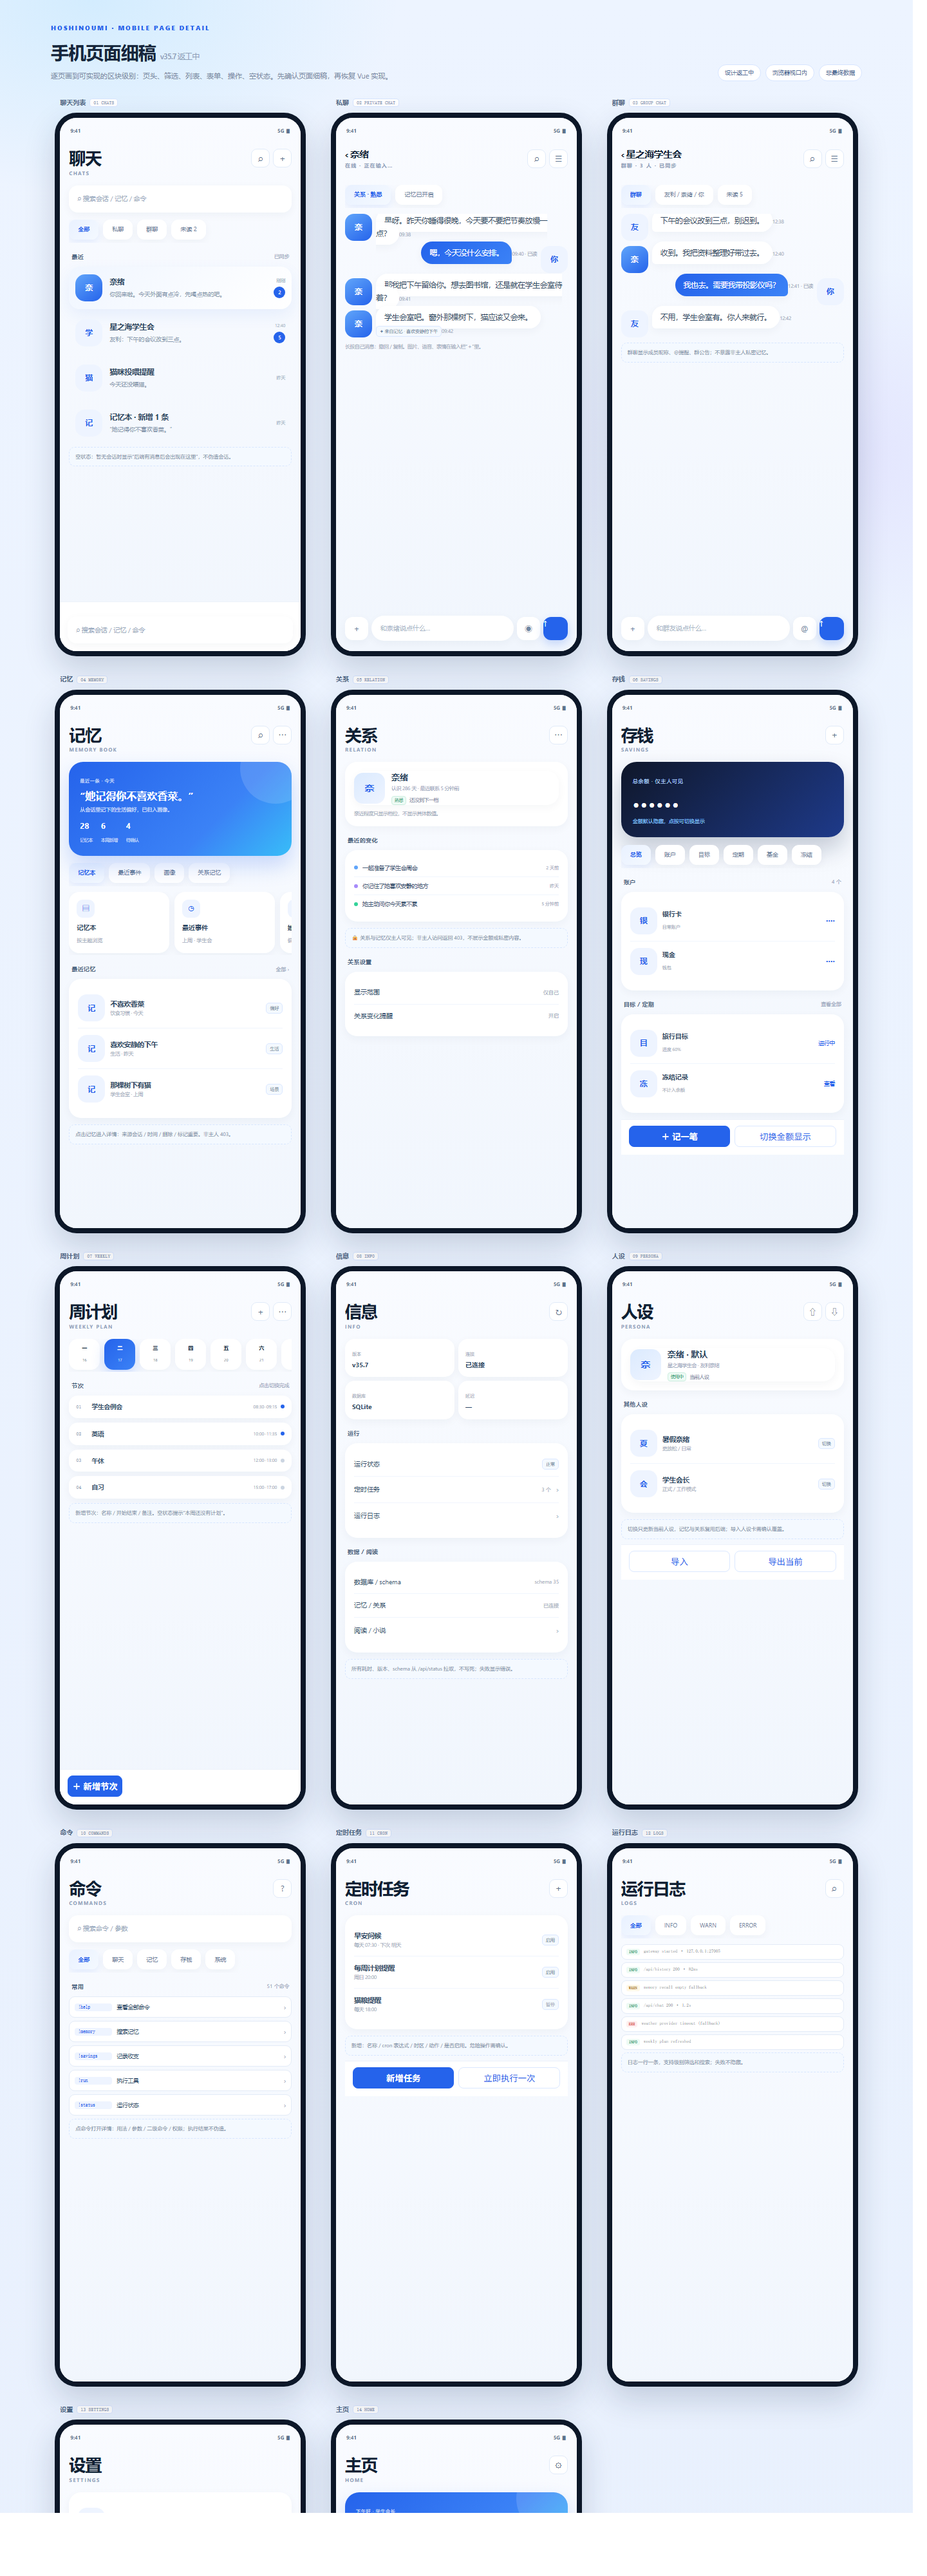
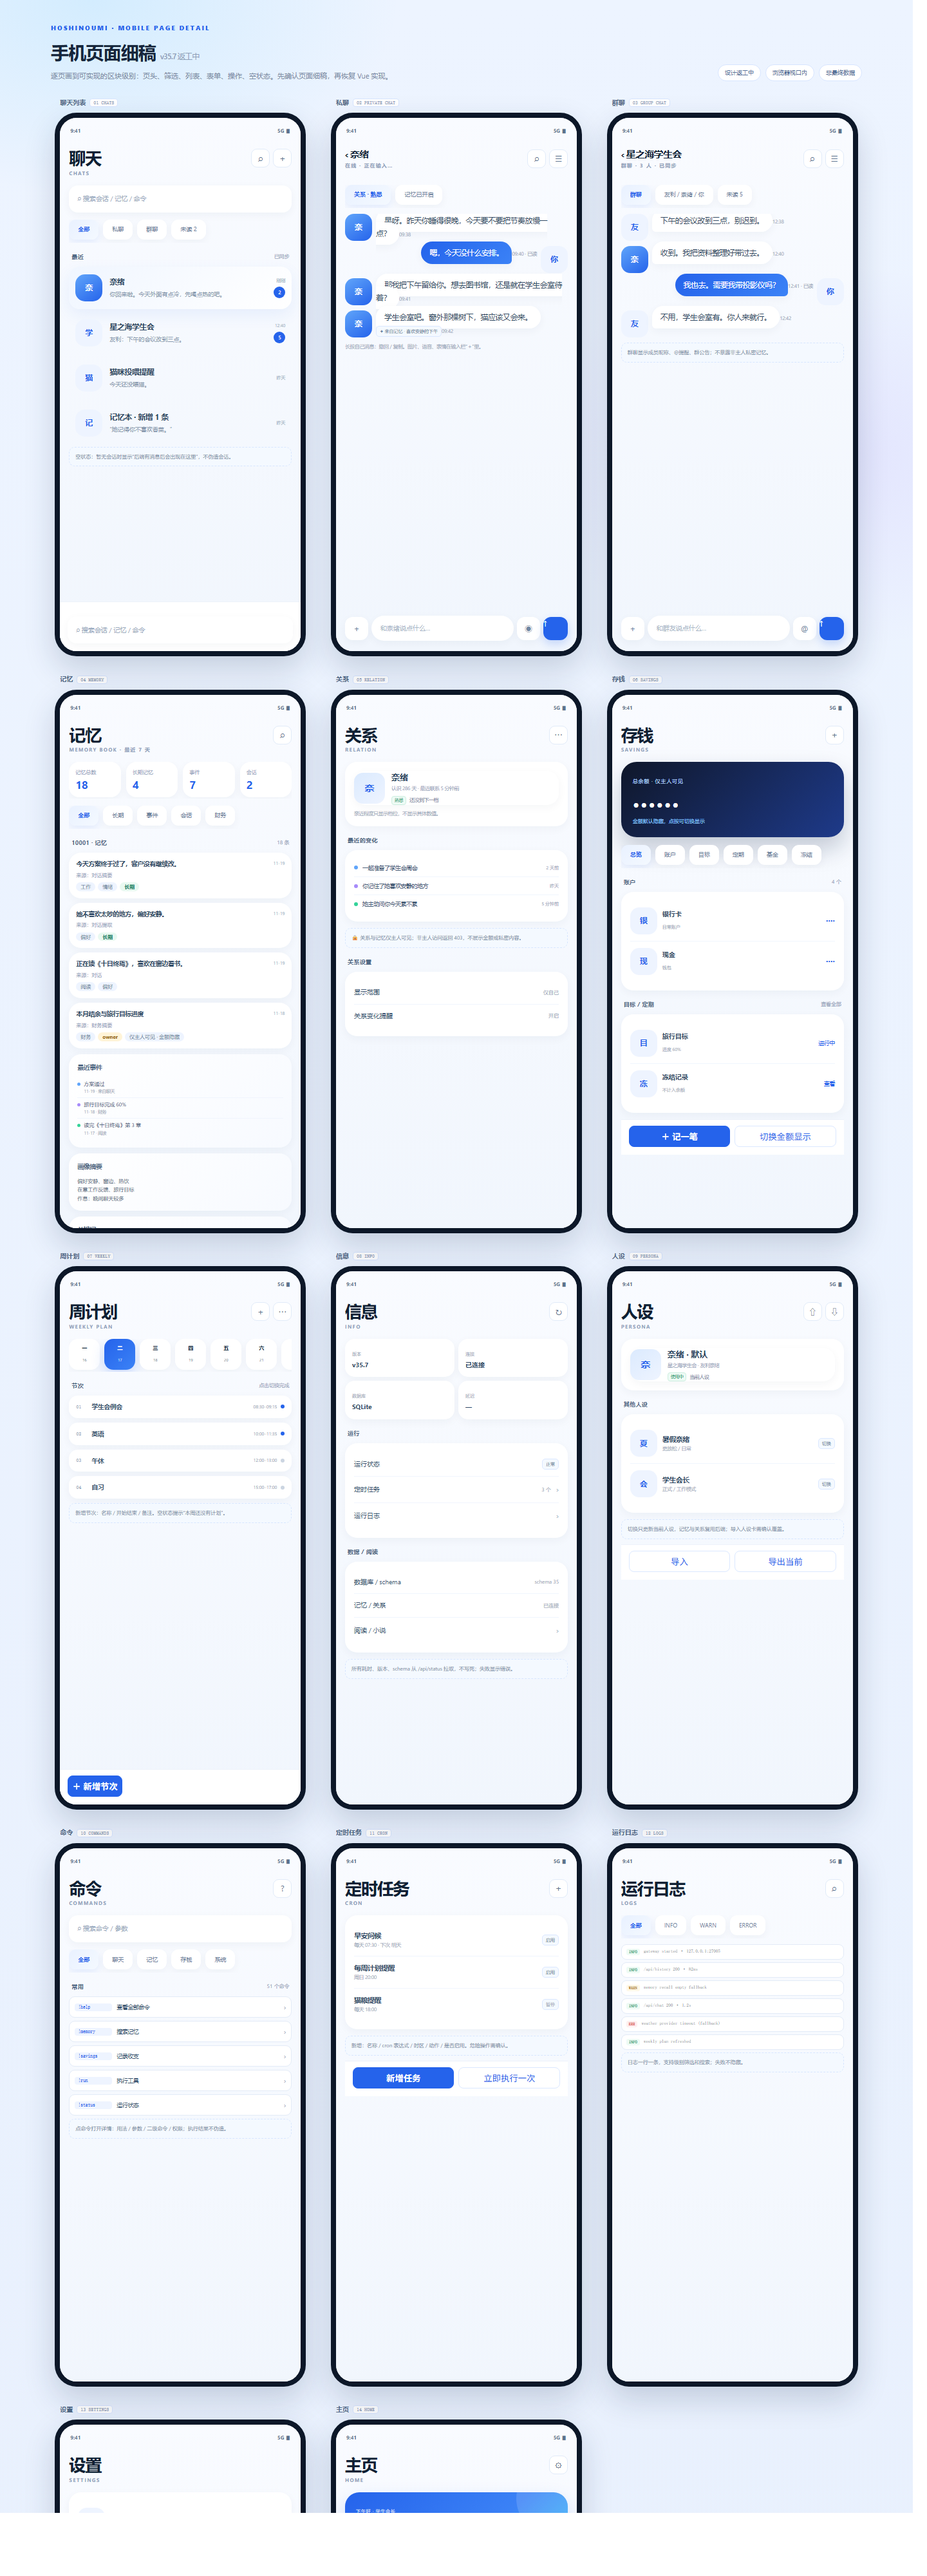
design(v35.7): 全量手机卡片与浮动底栏返工

Changed region(s): [[0.0625, 0.2812, 0.3125, 0.4688]]

diff --git a/docs/design/v35/mobile/hoshinoumi-mobile-v35.7-pages.html b/docs/design/v35/mobile/hoshinoumi-mobile-v35.7-pages.html
@@ -103,13 +103,17 @@ header p{margin:0;color:#7c8da6;font-size:11px;max-width:620px}
 
 <!-- 04 MEMORY -->
 <div class="item"><div class="label"><b>记忆</b><span>04 MEMORY</span></div><div class="frame"><div class="view"><div class="status"><span>9:41</span><span>5G ▮</span></div><div class="pg">
-<div class="ph"><h2>记忆<small>MEMORY BOOK</small></h2><div class="act"><i>⌕</i><i>⋯</i></div></div>
-<div class="mem-hero"><small>最近一条 · 今天</small><h3>“她记得你不喜欢香菜。”</h3><p>从会话里记下的生活偏好，已归入画像。</p><div class="mem-stat"><div><b>28</b><span>记忆本</span></div><div><b>6</b><span>本周新增</span></div><div><b>4</b><span>待确认</span></div></div></div>
-<div class="chips"><span class="chip on">记忆本</span><span class="chip">最近事件</span><span class="chip">画像</span><span class="chip">关系记忆</span></div>
-<div class="tiles"><div class="tile"><i>▤</i><b>记忆本</b><span>按主题浏览</span></div><div class="tile"><i>◷</i><b>最近事件</b><span>上周 · 学生会</span></div><div class="tile"><i>◉</i><b>她的画像</b><span>偏好 / 习惯</span></div><div class="tile"><i>♡</i><b>关系记忆</b><span>一起经历过</span></div></div>
-<div class="section-title">最近记忆<span>全部 ›</span></div>
-<div class="card"><div class="rowline"><span class="avatar" style="width:24px;height:24px">记</span><span class="grow"><b>不喜欢香菜</b><small>饮食习惯 · 今天</small></span><span class="tag">偏好</span></div><div class="rowline"><span class="avatar" style="width:24px;height:24px">记</span><span class="grow"><b>喜欢安静的下午</b><small>生活 · 昨天</small></span><span class="tag">生活</span></div><div class="rowline"><span class="avatar" style="width:24px;height:24px">记</span><span class="grow"><b>那棵树下有猫</b><small>学生会室 · 上周</small></span><span class="tag">场景</span></div></div>
-<div class="notice">点击记忆进入详情：来源会话 / 时间 / 删除 / 标记重要。非主人 403。</div>
+<div class="ph"><h2>记忆<small>MEMORY BOOK · 最近 7 天</small></h2><div class="act"><i>⌕</i></div></div>
+<div class="mem-stats"><div class="mem-stat-card"><small>记忆总数</small><b>18</b></div><div class="mem-stat-card"><small>长期记忆</small><b>4</b></div><div class="mem-stat-card"><small>事件</small><b>7</b></div><div class="mem-stat-card"><small>会话</small><b>2</b></div></div>
+<div class="chips"><span class="chip on">全部</span><span class="chip">长期</span><span class="chip">事件</span><span class="chip">会话</span><span class="chip">财务</span></div>
+<div class="section-title">10001 · 记忆<span>18 条</span></div>
+<div class="mem-card"><div class="top"><b>今天方案终于过了，客户没有继续改。</b><span class="date">11-19</span></div><p>来源：对话摘要</p><div class="mem-tags"><span class="mem-tag">工作</span><span class="mem-tag">情绪</span><span class="mem-tag long">长期</span></div></div>
+<div class="mem-card"><div class="top"><b>她不喜欢太吵的地方，偏好安静。</b><span class="date">11-19</span></div><p>来源：对话提取</p><div class="mem-tags"><span class="mem-tag">偏好</span><span class="mem-tag long">长期</span></div></div>
+<div class="mem-card"><div class="top"><b>正在读《十日终焉》，喜欢在窗边看书。</b><span class="date">11-19</span></div><p>来源：对话</p><div class="mem-tags"><span class="mem-tag">阅读</span><span class="mem-tag">偏好</span></div></div>
+<div class="mem-card"><div class="top"><b>本月结余与旅行目标进度</b><span class="date">11-18</span></div><p>来源：财务摘要</p><div class="mem-tags"><span class="mem-tag">财务</span><span class="mem-tag owner">owner</span><span class="mem-tag">仅主人可见 · 金额隐藏</span></div></div>
+<div class="mem-side-card"><h4>最近事件</h4><div class="ev"><i></i><span>方案通过<small>11-19 · 来自聊天</small></span></div><div class="ev"><i style="background:#a78bfa"></i><span>旅行目标完成 60%<small>11-18 · 财务</small></span></div><div class="ev"><i style="background:#34d399"></i><span>读完《十日终焉》第 3 章<small>11-17 · 阅读</small></span></div></div>
+<div class="mem-side-card"><h4>画像摘要</h4><p style="margin:0;font-size:8px;line-height:1.7;color:#536b86">偏好安静、窗边、热饮<br>在意工作反馈、旅行目标<br>作息：晚间聊天较多</p></div>
+<div class="mem-side-card"><h4>关键词</h4><div class="kw"><span>方案</span><span>旅行</span><span>安静</span><span>十日终焉</span><span>存钱</span><span>猫</span></div></div>
 </div></div></div></div>
 
 <!-- 05 RELATION -->

diff --git a/docs/design/v35/mobile/mobile-native.css b/docs/design/v35/mobile/mobile-native.css
@@ -102,3 +102,13 @@ body.nav-expanded #view{padding-bottom:196px!important}
 .savings-hero .amount{color:#fff!important}
 .savings-hero .savings-stats span{color:#a9c6ec!important}
 .savings-hero .savings-stats b{color:#fff!important}
+
+/* memory detail baseline (shared by page board + demo) */
+.mem-stats{display:flex;gap:7px;overflow-x:auto;margin-bottom:9px;padding-bottom:2px}
+.mem-stat-card{flex:0 0 calc(25% - 6px);background:#fff;border:0;border-radius:14px;padding:10px;box-shadow:var(--mn-soft)}
+.mem-stat-card small{display:block;font-size:7.5px;color:#8fa3bb}.mem-stat-card b{display:block;font-size:17px;line-height:1.2;color:var(--mn-blue);margin-top:2px}
+.mem-card{background:#fff;border:0;border-radius:15px;padding:11px;margin-bottom:7px;box-shadow:var(--mn-soft)}
+.mem-card .top{display:flex;justify-content:space-between;gap:8px;align-items:flex-start}.mem-card .top b{font-size:9.5px;color:#314a65;line-height:1.45}.mem-card .top .date{flex:none;font-size:7px;color:#a2b2c6}
+.mem-card p{margin:4px 0 5px;font-size:8px;color:#8fa3bb}
+.mem-tags{display:flex;flex-wrap:wrap;gap:4px}.mem-tag{display:inline-flex;align-items:center;font-size:7.5px;line-height:1.2;border-radius:6px;padding:2px 6px;background:#eef4ff;color:#5f7da2}.mem-tag.long{background:#e9f9f1;color:#1f9d6b;font-weight:650}.mem-tag.owner{background:#fffbeb;color:#a16207;font-weight:650}
+.mem-side-card{background:#fff;border:0;border-radius:15px;padding:11px;margin-top:8px;box-shadow:var(--mn-soft)}.mem-side-card h4{margin:0 0 7px;font-size:9px;color:#536b86}.mem-side-card .ev{display:flex;gap:5px;padding:4px 0;border-bottom:1px solid #f0f5fd;font-size:8px;color:#4a6079}.mem-side-card .ev:last-child{border-bottom:0}.mem-side-card .ev i{width:5px;height:5px;border-radius:50%;background:#60a5fa;margin-top:4px;flex:none}.mem-side-card .ev small{display:block;color:#9aabc0;font-size:6.5px;margin-top:1px}.kw{display:flex;flex-wrap:wrap;gap:4px}.kw span{font-size:7px;color:#5f7da2;background:#f4f9ff;border-radius:9px;padding:2px 6px}
